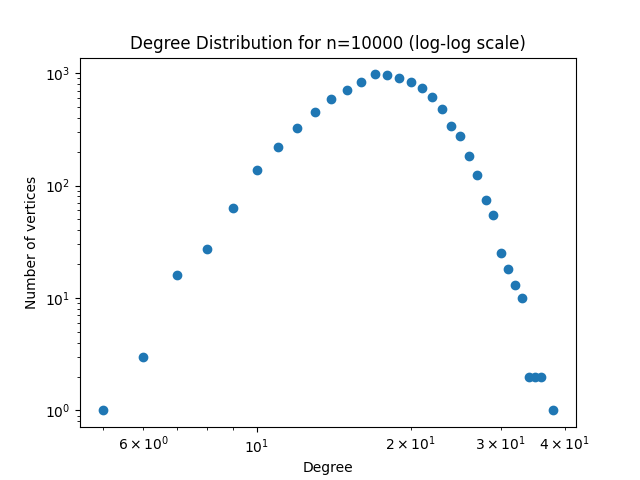
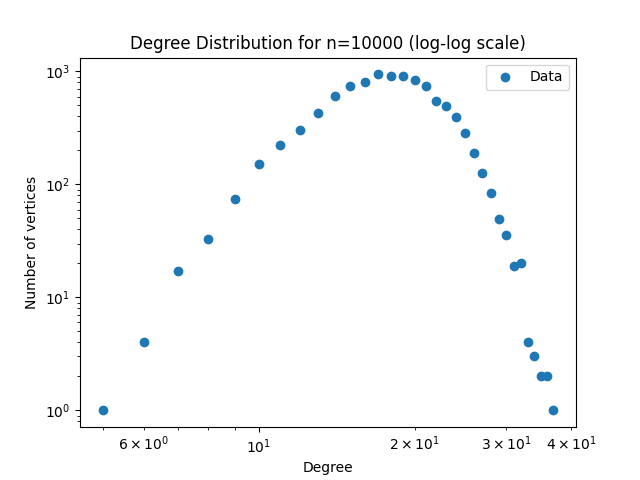
corrected graphs and main

diff --git a/main.py b/main.py
@@ -5,6 +5,7 @@ import math
 import random
 import numpy as np
 from typing import Iterable
+from scipy.stats import linregress
 
 def test_graph_algorithms(graph):
     clustering_coefficient = get_clustering_coefficient(graph)
@@ -14,7 +15,9 @@ def test_graph_algorithms(graph):
     return clustering_coefficient, degree_distribution, diameter
 
 def experiment_and_collect_data():
-    sizes = [1000, 10000, 100000]
+    sizes = np.logspace(3, 5, num=10, dtype=int)
+    specific_sizes = np.array([1000, 10000, 100000])
+    sizes = list(np.unique(np.concatenate((sizes, specific_sizes))))
     diameters = []
     clustering_coefficients = []
     degree_distributions = []
@@ -32,47 +35,69 @@ def experiment_and_collect_data():
     return sizes, diameters, clustering_coefficients, degree_distributions
 
 def plot_results(sizes, diameters, clustering_coefficients, degree_distributions):
-    # Plot diameter vs. size
+    # Plot diameter vs. size with best-fit line
     plt.figure()
-    plt.plot(sizes, diameters, marker='o')
+    plt.plot(sizes, diameters, marker='o', label='Data')
     plt.xscale('log')
     plt.yscale('log')
+
+    # Best-fit line for diameter vs. size
+    log_sizes = np.log(sizes)
+    log_diameters = np.log(diameters)
+    slope, intercept, r_value, p_value, std_err = linregress(log_sizes, log_diameters)
+    fit_fn = np.poly1d([slope, intercept])
+    plt.plot(sizes, np.exp(fit_fn(log_sizes)), linestyle='dotted', label=f'Fit: y={np.exp(intercept):.2f}x^{slope:.2f}, $R^2$={r_value**2:.2f}')
+
     plt.xlabel('Number of vertices (n)')
     plt.ylabel('Diameter')
     plt.title('Diameter vs. Number of vertices (log-log scale)')
+    plt.legend()
     plt.savefig('diameter_vs_size_log_log.png')
     plt.close()
 
-    # Plot clustering coefficient vs. size
+    # Plot clustering coefficient vs. size with best-fit line
     plt.figure()
-    plt.plot(sizes, clustering_coefficients, marker='o')
+    plt.plot(sizes, clustering_coefficients, marker='o', label='Data')
     plt.xscale('log')
+
+    # Best-fit line for clustering coefficient vs. size
+    log_clustering_coefficients = np.log(clustering_coefficients)
+    slope, intercept, r_value, p_value, std_err = linregress(log_sizes, log_clustering_coefficients)
+    fit_fn = np.poly1d([slope, intercept])
+    plt.plot(sizes, np.exp(fit_fn(log_sizes)), linestyle='dotted', label=f'Fit: y={np.exp(intercept):.2f}x^{slope:.2f}, $R^2$={r_value**2:.2f}')
+
     plt.xlabel('Number of vertices (n)')
     plt.ylabel('Clustering Coefficient')
     plt.title('Clustering Coefficient vs. Number of vertices (log scale)')
+    plt.legend()
     plt.savefig('clustering_coefficient_vs_size_log.png')
     plt.close()
 
     # Plot degree distribution for each size
     for i, degree_distribution in enumerate(degree_distributions):
-        degrees = list(degree_distribution.keys())
-        counts = list(degree_distribution.values())
-        
+        degrees = np.array(list(degree_distribution.keys()))
+        counts = np.array(list(degree_distribution.values()))
+
+        # Linear scale degree distribution
         plt.figure()
-        plt.scatter(degrees, counts)
+        plt.scatter(degrees, counts, label='Data')
         plt.xlabel('Degree')
         plt.ylabel('Number of vertices')
         plt.title(f'Degree Distribution for n={sizes[i]} (lin-lin scale)')
+        plt.legend()
         plt.savefig(f'degree_distribution_n_{sizes[i]}_lin_lin.png')
         plt.close()
 
+        # Log-log scale degree distribution
         plt.figure()
-        plt.scatter(degrees, counts)
+        plt.scatter(degrees, counts, label='Data')
         plt.xscale('log')
         plt.yscale('log')
+        
         plt.xlabel('Degree')
         plt.ylabel('Number of vertices')
         plt.title(f'Degree Distribution for n={sizes[i]} (log-log scale)')
+        plt.legend()
         plt.savefig(f'degree_distribution_n_{sizes[i]}_log_log.png')
         plt.close()
 
@@ -84,12 +109,17 @@ def generate_erdos_renyi_graph(n):
     w = -1
     while v < n:
         r = random.random()
-        w = w + 1 + math.floor(math.log2(1-r) / math.log2(1-p))
+        w += 1 + int(math.log(1 - r) / math.log(1 - p))
         while w >= v and v < n:
             w -= v
             v += 1
         if v < n:
-            edges.add((v, w))
+            if v < w:
+                edges.add((v, w))
+            else:
+                edges.add((w, v))
+    
+    print(f"Generated graph with {n} nodes and {len(edges)} edges.")
     return Graph(n, edges)
 
 def main():
